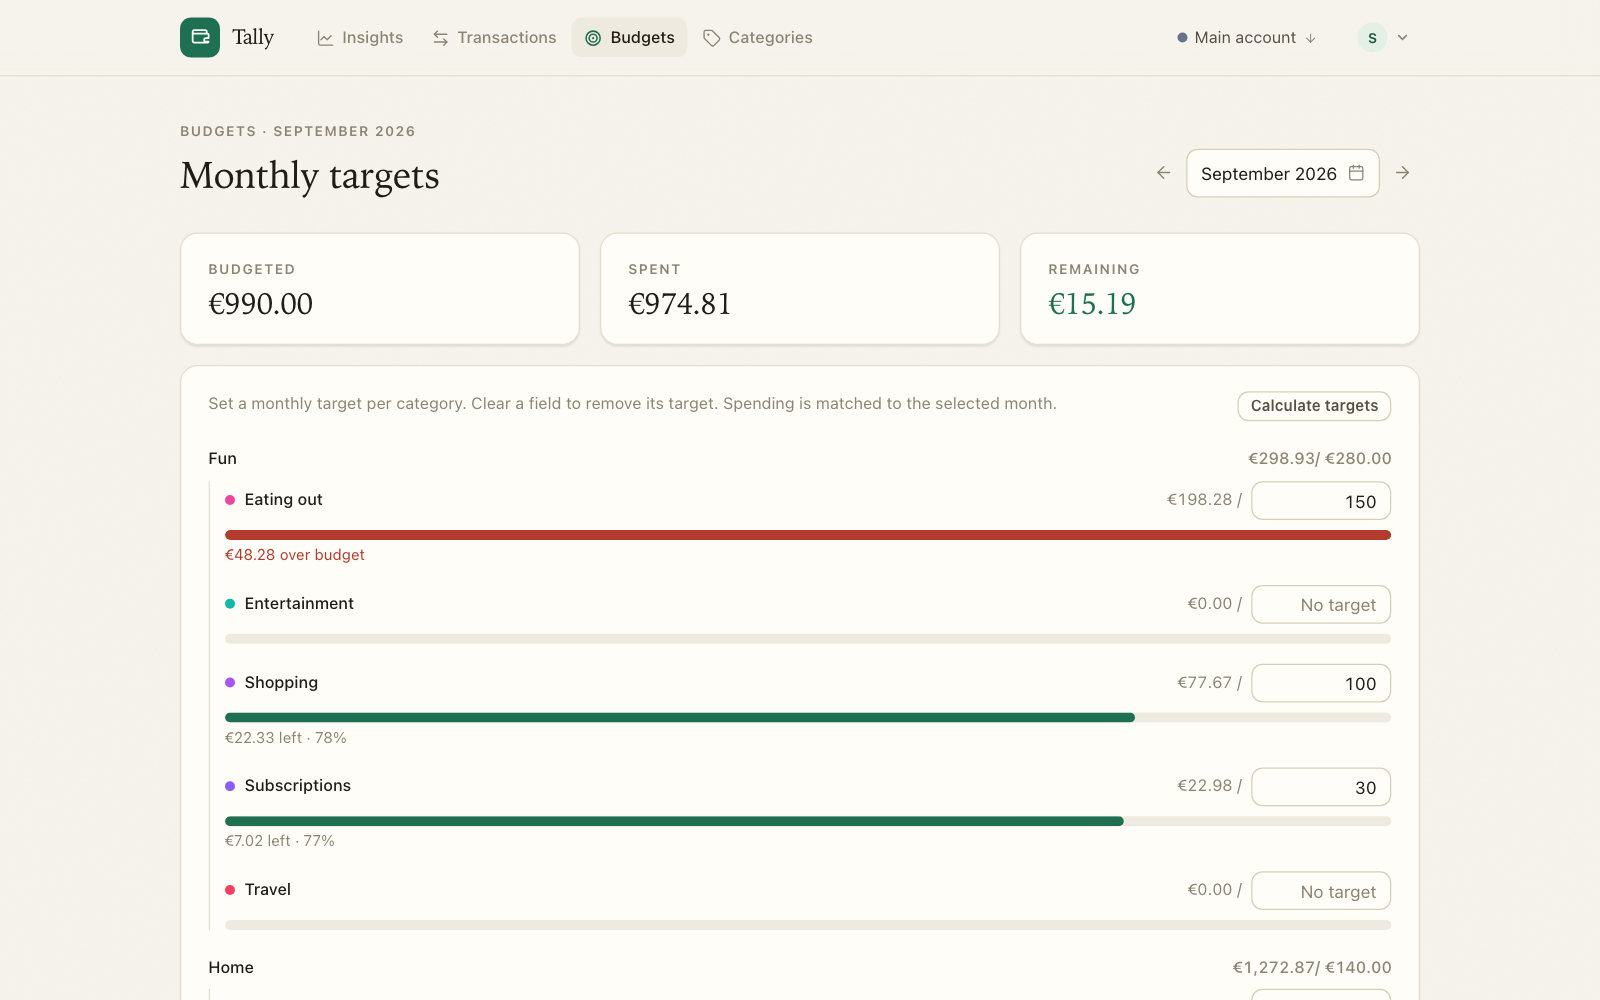
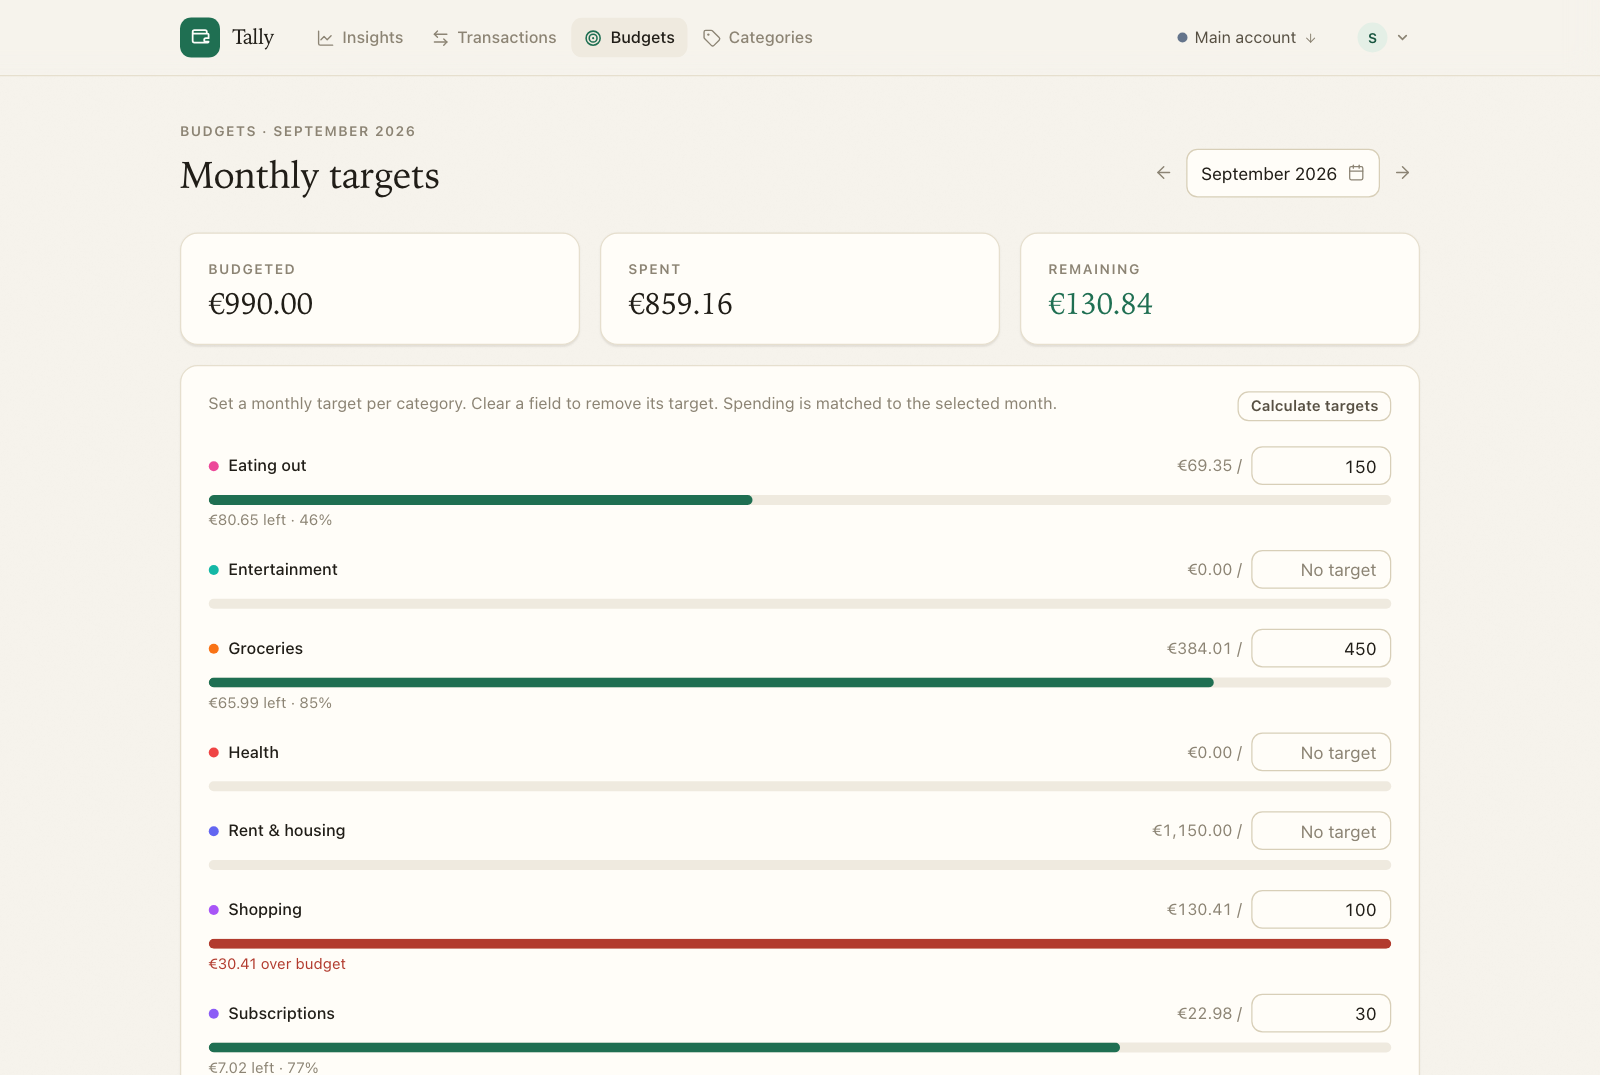
Update docs for the sankey, hide numbers and the OpenAI provider
Rewrite the Insights bullet around the money-flow diagram, and add
bullets for hiding numbers (with a screenshot), dark mode and phone
support. Correct the budgets caption and screenshot now that category
grouping is gone, and document OPENAI_API_KEY alongside the Anthropic
key in both env tables and .env.example.

Screenshots regenerated against 0.58.0.

diff --git a/README.md b/README.md
@@ -14,10 +14,12 @@ what went out, and what you kept. No subscriptions, no bank logins, no data leav
 - **Sort spending into categories** — Groceries, Rent, Eating out, whatever makes sense to you. Set up simple rules ("anything with *Tesco* in it is Groceries") and Tally sorts new transactions for you.
 - **Set monthly budgets** — a target per category, with a clear view of how much is left. Tally can suggest targets based on what you usually spend.
 - **Track savings** — money you move into savings counts as money kept, not money spent, so your totals tell the truth.
-- **Insights** — one page that answers *where did my money go this month?* Compare any period against your own normal, see which categories shifted the most, and browse a month-by-month picture.
+- **Insights** — one page that answers *where did my money go this month?* A money-flow diagram follows every euro from what came in through to where it went, ending in whatever you had left over. Pick any period to measure it against your own normal, see which categories moved the most, and browse month by month.
 - **Multiple accounts** — a current account and a savings account, say. Transfers between them are never mistaken for income.
 - **Shared, but private** — everyone in the household gets their own login, categories and data. Nobody sees anyone else's numbers.
-- **Ask Tori (optional)** — add a Claude API key and you can ask questions in plain English: *"How much did I spend on groceries this month?"* or *"Am I over budget on anything?"* Tori can also sort imported transactions into your categories and write a short summary of each period. Off unless you switch it on.
+- **Hide your numbers** — one click in the account menu blanks every amount on screen, so you can show someone a chart without showing them your balance. There's a dark mode in the same menu.
+- **Works on your phone** — the whole app adapts to a small screen, and you can add it to your home screen like any other app.
+- **Ask Tori (optional)** — add an API key from Anthropic (Claude) or OpenAI (GPT) and you can ask questions in plain English: *"How much did I spend on groceries this month?"* or *"Am I over budget on anything?"* Tori can also sort imported transactions into your categories and write a short summary of each period. Off unless you switch it on.
 
 <table>
   <tr>
@@ -26,9 +28,13 @@ what went out, and what you kept. No subscriptions, no bank logins, no data leav
   </tr>
   <tr>
     <td align="center"><sub>Check every row of a statement before it's saved — duplicates are spotted, rules fill in categories</sub></td>
-    <td align="center"><sub>Monthly targets, grouped, with what's left at a glance</sub></td>
+    <td align="center"><sub>A monthly target per category, with what's left at a glance</sub></td>
   </tr>
 </table>
+
+![The same page with numbers hidden](docs/screenshots/hide-numbers.png)
+
+<sub>Hide numbers blanks every amount while leaving the layout intact — handy when someone's looking over your shoulder.</sub>
 
 ## Getting started
 
@@ -49,7 +55,7 @@ Want a practice run? Import [`sample-transactions.csv`](static/sample-transactio
 | Setting | What it does |
 |---|---|
 | `ALLOW_REGISTRATION=false` | Stop new people signing up once your household has accounts |
-| `ANTHROPIC_API_KEY` | Switches on Ask Tori and AI sorting (can also be set in Server settings) |
+| `ANTHROPIC_API_KEY` or `OPENAI_API_KEY` | Switches on Ask Tori and AI sorting (easier to set in *Server settings*, where you also pick the model) |
 | `ORIGIN` | Only needed if you put Tally behind a reverse proxy — set it to the address you visit, e.g. `https://tally.example.com` |
 
 Forgot a password? Run `node scripts/reset-password.mjs` on the server.
@@ -78,4 +84,5 @@ Docker images are published to GitHub Container Registry on every push to `main`
 | `ALLOW_REGISTRATION` | `true` | Set to `false` to close signup |
 | `ORIGIN` | – | Public URL when behind a reverse proxy (or pass `X-Forwarded-Proto` / `X-Forwarded-Host` with `PROTOCOL_HEADER` / `HOST_HEADER`) |
 | `BODY_SIZE_LIMIT` | `8M` | Max request body, for large CSV imports |
-| `ANTHROPIC_API_KEY` | – | Enables Ask Tori and AI categorisation |
+| `ANTHROPIC_API_KEY` | – | Enables Ask Tori and AI categorisation via Claude |
+| `OPENAI_API_KEY` | – | Same, via GPT — an admin picks the provider and model in *Server settings* |
